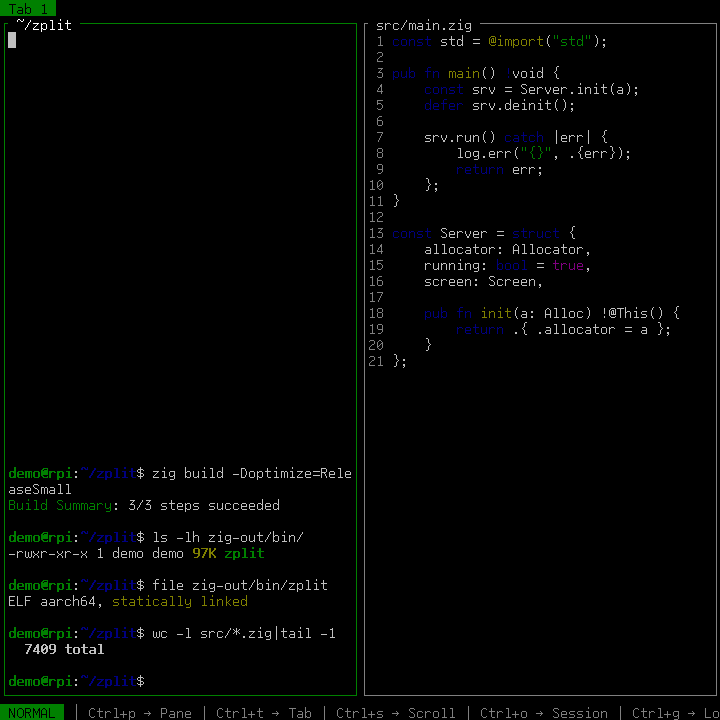
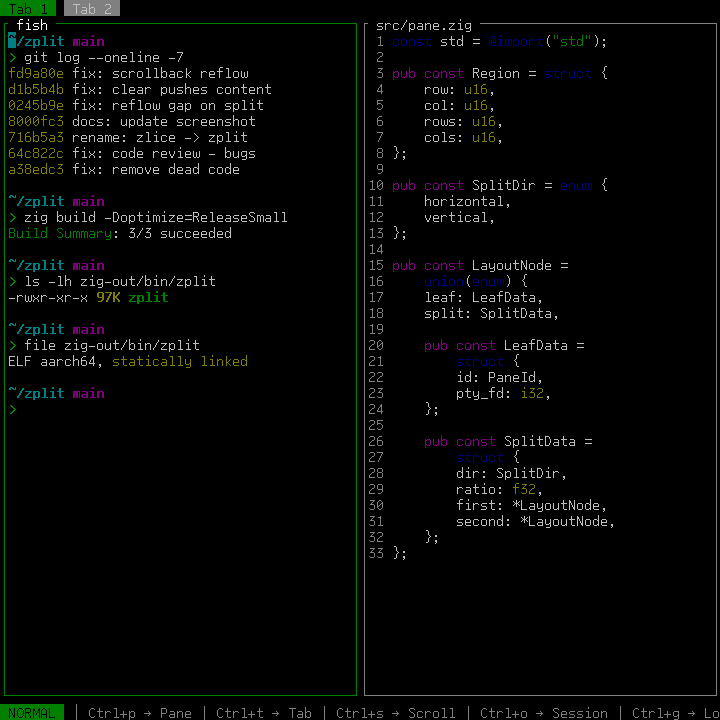
docs: update screenshots with polished two-tab demo
- Tab 1: two-pane development workflow (git log + syntax-highlighted code)
- Tab 2: HackberryPi Zero system info with ASCII art and session list
- Fish-style prompts, OSC titles for clean pane headers
- Screenshot script updated for reproducible 720x720 Xephyr captures

diff --git a/README.md b/README.md
@@ -5,6 +5,7 @@
 Written in Zig. Zero dependencies. Statically linked. Light enough to run where others won't.
 
 ![zplit screenshot](docs/screenshot.png)
+![zplit tab2](docs/screenshot-tab2.png)
 
 ## Why
 
